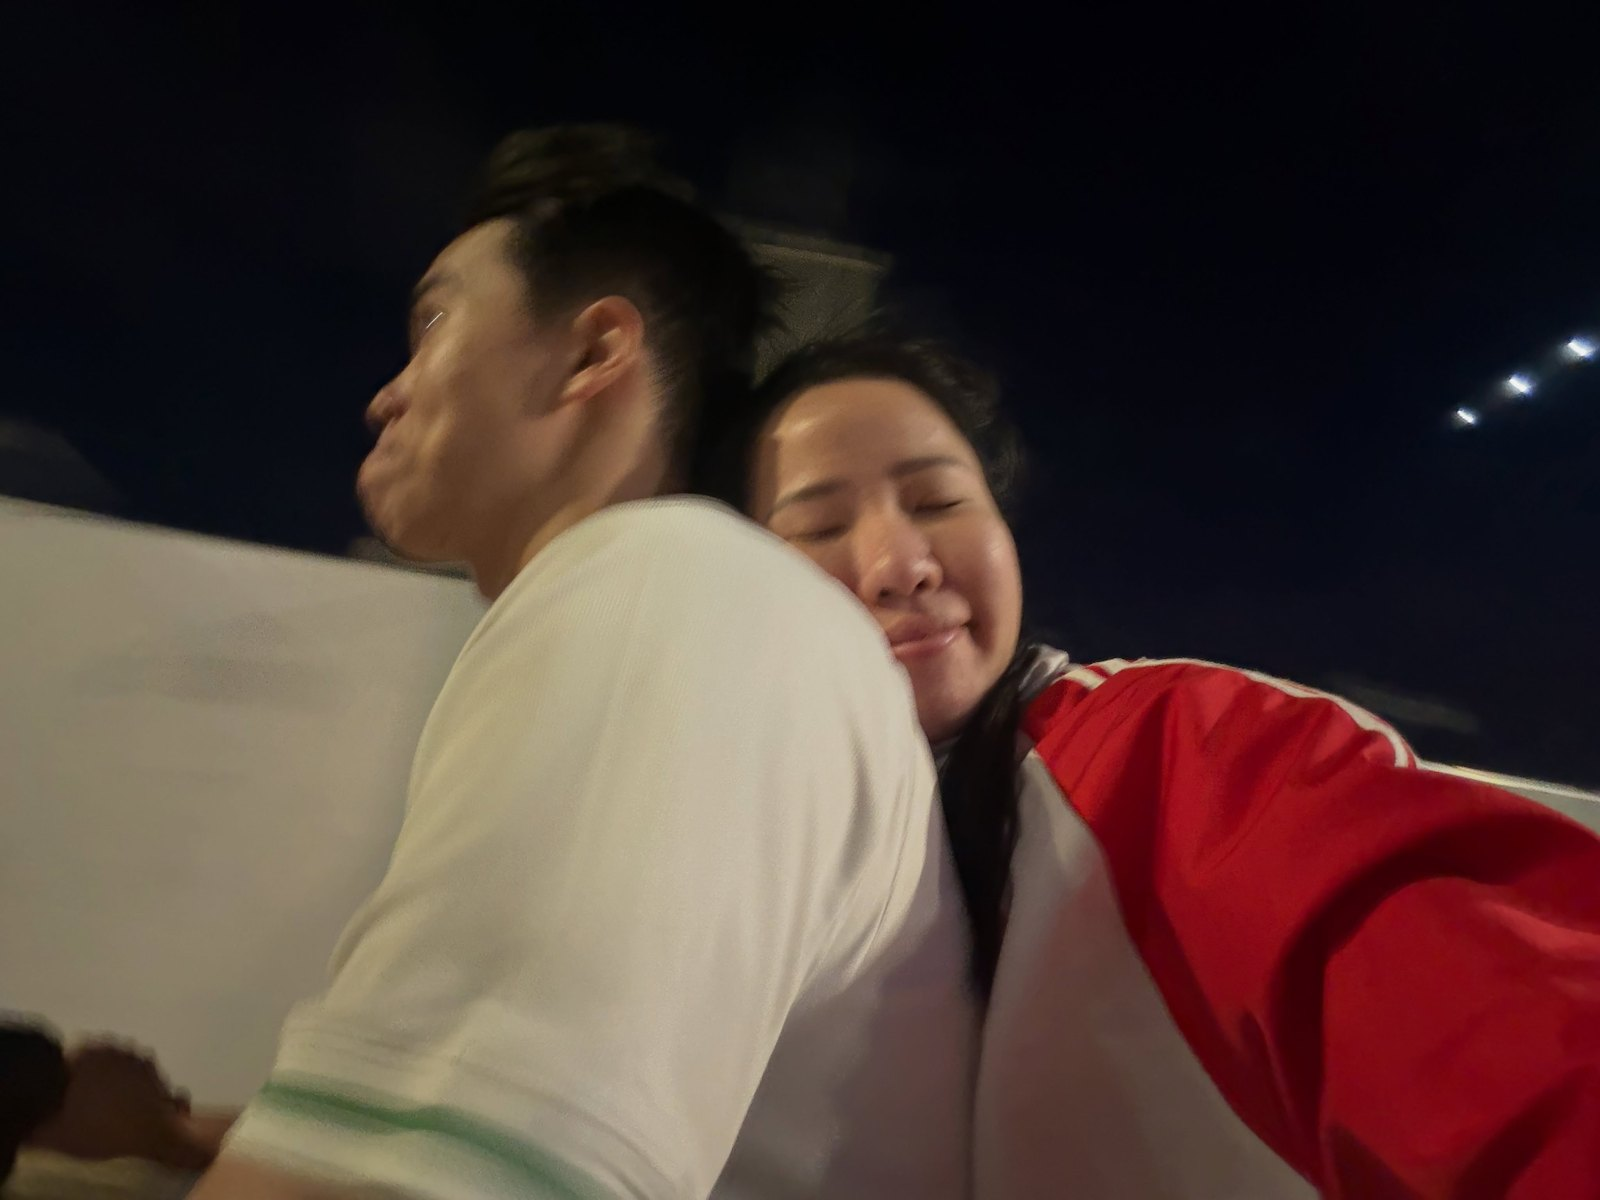
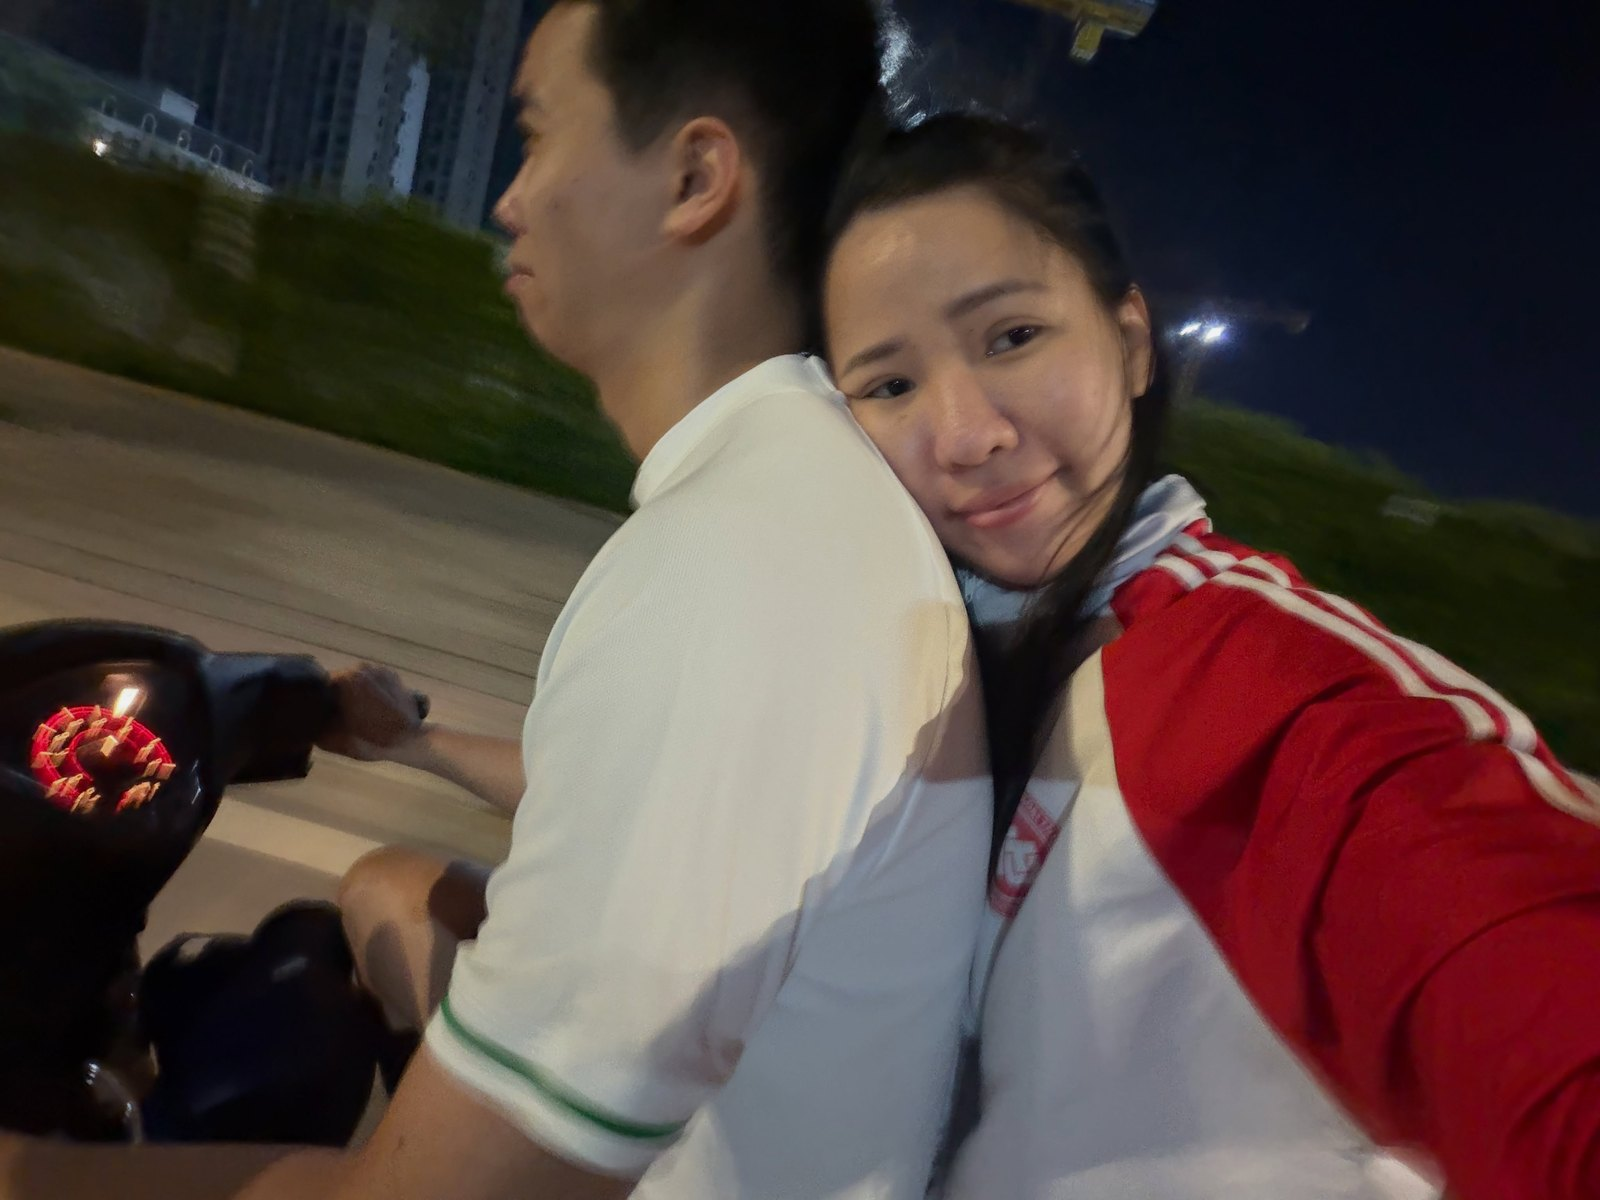
feat: tuyển chọn 13 ảnh sát thực tế và điều chỉnh câu chuyện hành trình tình yêu chân thật nhất

diff --git a/config.js b/config.js
@@ -1,11 +1,12 @@
 /**
- * Experience Configuration
- * Đồng bộ với experience-config.js để người dùng có thể chỉnh sửa tại bất kỳ file nào.
+ * config.js — Đi cùng anh đến nơi có trăng
+ * Cấu hình nội dung hành trình ký ức tình yêu
  */
-window.experienceConfig = (typeof window !== "undefined" && window.EXPERIENCE_CONFIG) ? window.EXPERIENCE_CONFIG : {
+
+window.experienceConfig = {
   couple: {
-    person1: "Anh",
-    person2: "Em",
+    partnerName: "Em",
+    userName: "Anh",
   },
 
   intro: {
@@ -13,141 +14,140 @@ window.experienceConfig = (typeof window !== "undefined" && window.EXPERIENCE_CO
       "Trung thu năm nay…",
       "Anh không muốn chỉ tặng em một món quà.",
       "Anh muốn làm cho em một nơi.",
+      "Nơi chỉ có hai đứa mình, dòng sông êm đềm và ánh trăng sáng nhất.",
     ],
     cta: "Đi cùng anh 🌙",
   },
 
-  // Memory chapters — the boat journey
+  // 4 Memory chapters
   chapters: [
     {
       title: "Ngày chúng ta bắt đầu",
       subtitle: "Chapter I",
     },
     {
-      title: "Những ngày bình thường",
+      title: "Những ngày bình dị & Cơm nhà",
       subtitle: "Chapter II",
     },
     {
-      title: "Những nơi chúng ta đã đi qua",
+      title: "Chuyến đi xa — Senna Resort",
       subtitle: "Chapter III",
     },
     {
-      title: "Ở đây, dưới cùng một mặt trăng",
+      title: "Dưới vòm trời đêm — Về chung một lối",
       subtitle: "Chapter IV",
     },
   ],
 
   /**
-   * Memories — each one becomes a point in the 3D world.
-   * type: "lantern" | "bridge" | "sakura" | "reflection" | "moon"
-   * chapter: 0-based index into chapters[]
+   * 12 Memories matching the real story
    */
   memories: [
     {
       image: "./memories/01.jpg",
-      title: "Ngày đầu tiên",
+      title: "Bó hoa đầu tiên",
       date: "25.07.2026",
-      caption: "Lúc này chắc cả hai đứa đều chưa biết người bên cạnh sẽ trở nên quan trọng đến thế.",
+      caption: "Bó hoa hồng phấn ngày anh ngỏ lời. Lúc ấy cả hai đứa đều ngượng ngùng, chẳng ngờ một bó hoa lại mở ra cả một hành trình dịu dàng đến thế.",
       location: "Góc quán quen, Hà Nội",
       type: "lantern",
       chapter: 0,
     },
     {
       image: "./memories/02.jpg",
-      title: "Nụ cười chiều thu",
+      title: "Những ngón tay đan chặt",
       date: "25.07.2026",
-      caption: "Ánh mắt em chiều hôm ấy, anh cất vào tim từ lúc nào chẳng hay.",
-      location: "Ven bờ hồ Tây",
+      caption: "Bàn tay nhỏ của em ngoan ngoãn nằm trong tay anh suốt cả chặng đường. Cảm giác ấm áp ấy là điều anh luôn muốn nắm giữ mãi mãi.",
+      location: "Trên xe đón đưa",
       type: "reflection",
       chapter: 0,
     },
     {
       image: "./memories/03.jpg",
-      title: "Cái nắm tay ngập ngừng",
+      title: "Sóng đôi bước đi",
       date: "25.07.2026",
-      caption: "Lần đầu tay chạm tay, cả hai đều vờ như vô tình nhưng tim thì đập rất nhanh.",
-      location: "Con đường rợp lá rụng",
+      caption: "Hai bóng lưng sánh bước thong thả bên nhau. Chẳng cần điểm đến nào vội vã, chỉ cần người đi cạnh là em là đủ trọn vẹn một ngày.",
+      location: "Những góc phố quen",
       type: "bridge",
       chapter: 0,
     },
     {
       image: "./memories/04.jpg",
-      title: "Dưới tán hoa đầu mùa",
+      title: "Cơm nhà ấm áp",
       date: "26.07.2026",
-      caption: "Cánh hoa rơi vương trên tóc em, tự nhiên thấy lòng dịu lại sau những ngày bận rộn.",
-      location: "Vườn hoa anh đào",
+      caption: "Đĩa thịt kho thơm nức, bát canh rau luộc thanh ngọt. Hạnh phúc giản đơn nhất là sau một ngày dài được ngồi ăn bữa cơm nhà nóng hổi cùng em.",
+      location: "Căn bếp nhỏ",
       type: "sakura",
       chapter: 1,
     },
     {
       image: "./memories/05.jpg",
-      title: "Gặp nhau trên cầu đá",
+      title: "Que kem chiều hè",
       date: "26.07.2026",
-      caption: "Mưa rơi ướt vai áo anh, nhưng em luôn khô ráo và an tâm nép bên cạnh.",
-      location: "Cây cầu đá thung lũng",
+      caption: "Chia nhau từng que kem mát lạnh giữa buổi chiều hè. Vị ngọt mát của kem chẳng bằng nụ cười tươi rói của em lúc ấy.",
+      location: "Dưới bóng râm góc phố",
       type: "bridge",
       chapter: 1,
     },
     {
       image: "./memories/06.jpg",
-      title: "Những quán quen không tên",
-      date: "26.07.2026",
-      caption: "Món ăn có thể giản đơn, nhưng tiếng cười của em làm tất cả trở nên đặc biệt.",
-      location: "Góc phố đèn vàng",
+      title: "Cùng nhau vun vén",
+      date: "06.08.2026",
+      caption: "Cùng đẩy xe đi chọn từng chiếc chảo, từng món đồ gia dụng nhỏ xinh. Cảm giác hai đứa đang cùng nhau chăm chút cho tổ ấm tương lai.",
+      location: "Siêu thị gia đình",
       type: "lantern",
       chapter: 1,
     },
     {
       image: "./memories/07.jpg",
-      title: "Chuyến đi xa đầu tiên",
-      date: "28.07.2026",
-      caption: "Đứng giữa mây trời thênh thang, anh nhận ra thế giới rộng lớn nhưng vừa vặn khi có em.",
-      location: "Đỉnh đồi mờ sương",
+      title: "Chào đón ở Senna",
+      date: "09.08.2026",
+      caption: "Chuyến đi trốn thành phố đầu tiên của hai đứa. Bức thư chào mừng xinh xắn và đĩa hoa quả ngọt lành mở đầu cho một kỳ nghỉ bình yên.",
+      location: "Senna Wellness Retreat",
       type: "lantern",
       chapter: 2,
     },
     {
       image: "./memories/08.jpg",
-      title: "Mặt nước lặng yên",
-      date: "06.08.2026",
-      caption: "Sóng khẽ gợn, phản chiếu bóng hai đứa. Anh thầm mong thời gian cứ ngừng lại lúc này.",
-      location: "Hồ vắng lúc hoàng hôn muộn",
+      title: "Khoảnh khắc bên sofa",
+      date: "09.08.2026",
+      caption: "Buổi trưa lười biếng tựa vào nhau, những cái ôm và nụ hôn dịu dàng. Ở nơi này, chỉ có tiếng gió thổi và thế giới của riêng hai đứa.",
+      location: "Góc phòng resort",
       type: "reflection",
       chapter: 2,
     },
     {
       image: "./memories/09.jpg",
-      title: "Khoảnh khắc bình yên",
-      date: "06.08.2026",
-      caption: "Anh ước cho mọi năm tháng về sau, người cùng anh ngắm trăng luôn là em.",
-      location: "Gốc cây ước nguyện",
+      title: "Bữa tối dưới ánh đèn vàng",
+      date: "09.08.2026",
+      caption: "Bàn tiệc tối ấm cúng bên ánh nến lung linh. Ngắm nhìn em rạng rỡ phía bên kia bàn ăn, anh biết mình đã tìm thấy điều quý giá nhất.",
+      location: "Nhà hàng Senna",
       type: "sakura",
       chapter: 2,
     },
     {
       image: "./memories/10.jpg",
-      title: "Ở đây, cùng một vòm trời",
+      title: "Áo choàng đôi trước gương",
       date: "09.08.2026",
-      caption: "Dù cuộc sống có trôi nhanh đến đâu, dừng lại bên em luôn là chốn bình yên nhất.",
-      location: "Đêm trăng thanh tĩnh",
+      caption: "Bức ảnh selfie đôi đáng yêu trong chiếc áo choàng trắng tinh. Những điều ngốc nghếch nhất khi làm cùng em đều trở nên đáng yêu lạ thường.",
+      location: "Phòng nghỉ resort",
       type: "lantern",
       chapter: 3,
     },
     {
       image: "./memories/11.jpg",
-      title: "Lời hứa của anh",
-      date: "09.08.2026",
-      caption: "Không hứa những điều viển vông, chỉ hứa sẽ luôn nắm chặt tay em qua mọi thăng trầm.",
-      location: "Bến sông trăng",
+      title: "Cái ôm siết chặt",
+      date: "25.07.2026",
+      caption: "Dưới ánh đèn đường vàng dịu mát, anh ôm em thật chặt vào lòng. Nguyện ước khoảnh khắc bình yên này sẽ kéo dài mãi mãi.",
+      location: "Góc phố đêm Châu Âu",
       type: "lantern",
       chapter: 3,
     },
     {
       image: "./memories/12.jpg",
-      title: "Chiếc đèn lồng nguyện ước",
-      date: "Đêm nay",
-      caption: "Chiếc đèn lồng này gửi gắm tất cả những điều anh muốn nói với em.",
-      location: "Nơi có trăng tròn",
+      title: "Ngồi sau xe anh",
+      date: "14.09.2026",
+      caption: "Gió đêm thu lành lạnh lướt qua vai, em ngồi sau ôm eo anh thật chặt. Giữa thành phố muôn ánh đèn, người ngồi sau anh là điều duy nhất anh hướng về.",
+      location: "Gió đêm thu Hà Nội",
       type: "moon",
       chapter: 3,
     },
@@ -155,31 +155,32 @@ window.experienceConfig = (typeof window !== "undefined" && window.EXPERIENCE_CO
 
   // Important dates for constellation
   importantDates: [
-    { date: "25.07.2026", label: "Ngày chúng ta gặp nhau" },
-    { date: "05.10.2024", label: "Chuyến đi đầu tiên" },
+    { date: "25.07.2026", label: "Bó hoa đầu tiên & Cái nắm tay" },
+    { date: "26.07.2026", label: "Bữa cơm nhà & Que kem hè" },
+    { date: "09.08.2026", label: "Kỳ nghỉ ngọt ngào Senna Resort" },
+    { date: "14.09.2026", label: "Đêm thu trên xe anh & Mùa trăng trọn vẹn" },
   ],
 
   // Future memories (empty frames)
   futureMemories: [
-    "Một chuyến đi chúng ta chưa đi",
-    "Một nơi chúng ta chưa sống",
+    "Một chuyến đi xa hơn chúng ta chưa đi",
+    "Một ngôi nhà nhỏ tràn ngập tiếng cười",
     "Một mùa Trung thu nào đó khi chúng ta già hơn",
-    "Một bức ảnh chưa tồn tại",
+    "Một bức ảnh gia đình trọn vẹn trong tương lai",
   ],
 
   loveLetter: {
     intro: [
       "Anh đã nghĩ rất lâu xem Trung thu này nên tặng em thứ gì.",
-      "Rồi anh nhận ra những điều anh muốn giữ nhất không nằm trong một hộp quà.",
+      "Rồi anh nhận ra những điều quý giá nhất đều đã nằm trong những ngày chúng mình bên nhau.",
     ],
-    body: "Nó nằm ở những buổi chiều chúng mình ngồi bên nhau không nói lời nào mà vẫn thấy bình yên, ở những tin nhắn chúc ngủ ngon mỗi tối, và ở ánh mắt em mỗi khi mỉm cười. Cảm ơn em vì đã bước vào thế giới của anh, biến những ngày bình thường nhất trở thành những ngày đáng nhớ nhất. Dù năm tháng có trôi qua, anh vẫn muốn cùng em đi qua thêm nhiều mùa trăng nữa…",
+    body: "Từ bó hoa ngày đầu ngỏ lời, cái nắm tay ngập ngừng trên xe, những bữa cơm nhà nóng hổi hai đứa cùng nấu, cho đến chuyến đi Senna ngập tràn tiếng cười và những buổi tối em nép sau lưng anh lướt qua từng con phố gió thu... Cảm ơn em vì đã đến, biến những điều bình thường nhất trở thành ký ức đẹp nhất. Chúc cho mọi mùa trăng về sau, người ngồi sau xe anh và cùng anh ngắm trăng mãi mãi là em.",
     closing: "Người luôn bên em",
   },
 
   finalImage: "./memories/final.jpg",
-  finalText: "Trung thu vui vẻ, người anh yêu. 🌕",
+  finalText: "Trung thu ấm áp, người anh yêu. 🌕",
 
-  // Audio files (add later)
   audio: {
     backgroundMusic: "",
     ambientWater: "",
@@ -189,14 +190,8 @@ window.experienceConfig = (typeof window !== "undefined" && window.EXPERIENCE_CO
     memoryOpenSound: "",
   },
 
-  // Easter egg
-  moonClicks: [
-    "Em vừa chạm vào mặt trăng.",
-    "Nhưng hình như em vẫn ở xa quá.",
-    "Vậy thì quay lại đây với anh đi.",
-  ],
-
   ending: {
-    stayButton: "Ở lại đây thêm một chút",
+    stayButton: "Ở lại ngắm trăng cùng anh 🌙",
+    replayButton: "Xem lại hành trình",
   },
 };

diff --git a/index.html b/index.html
@@ -51,8 +51,8 @@
 </div></div>
 <script>window.__load = function (p) { var e = document.getElementById('enso'); if (!e) return; document.getElementById('load').className = 'go'; e.style.strokeDashoffset = String(1 - Math.max(0.015, Math.min(1, p))); };</script>
 <script defer src="./scene-SV5IBQX7.js"></script>
-<link rel="stylesheet" href="./journey.css?v=4">
-<script src="./config.js?v=4"></script>
-<script defer src="./journey.js?v=4"></script>
+<link rel="stylesheet" href="./journey.css?v=5">
+<script src="./config.js?v=5"></script>
+<script defer src="./journey.js?v=5"></script>
 </body>
 </html>
